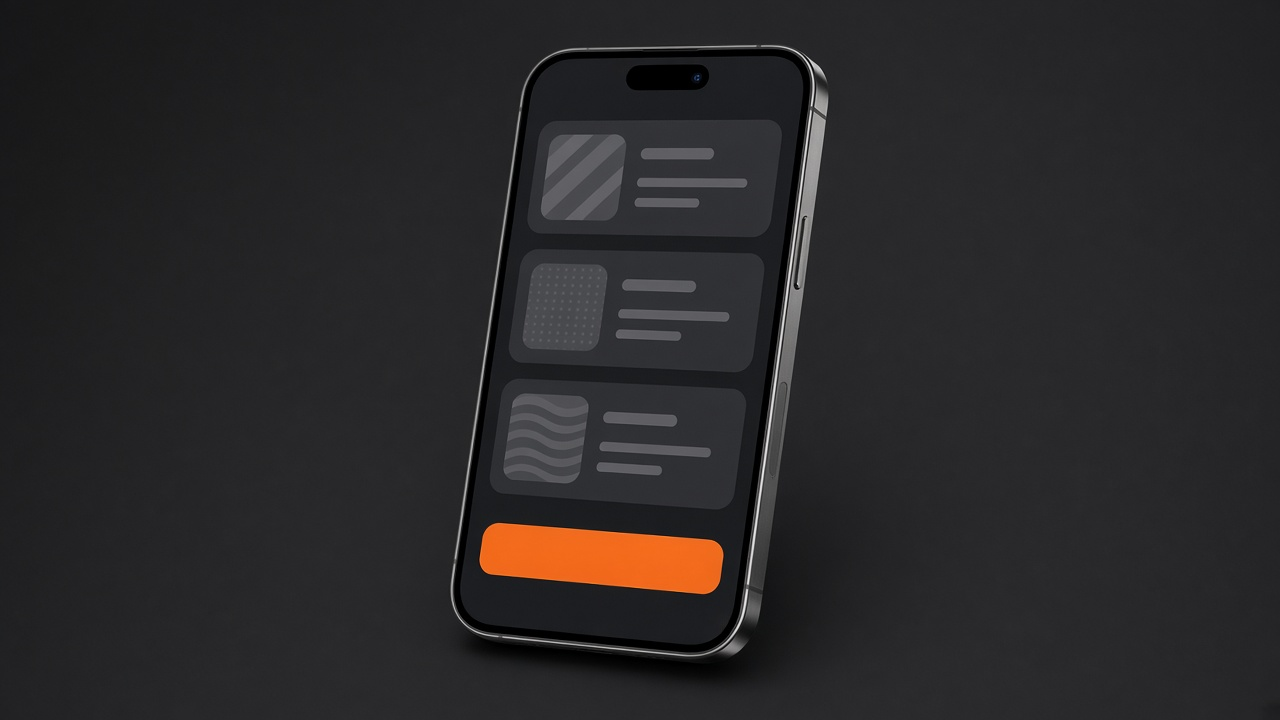
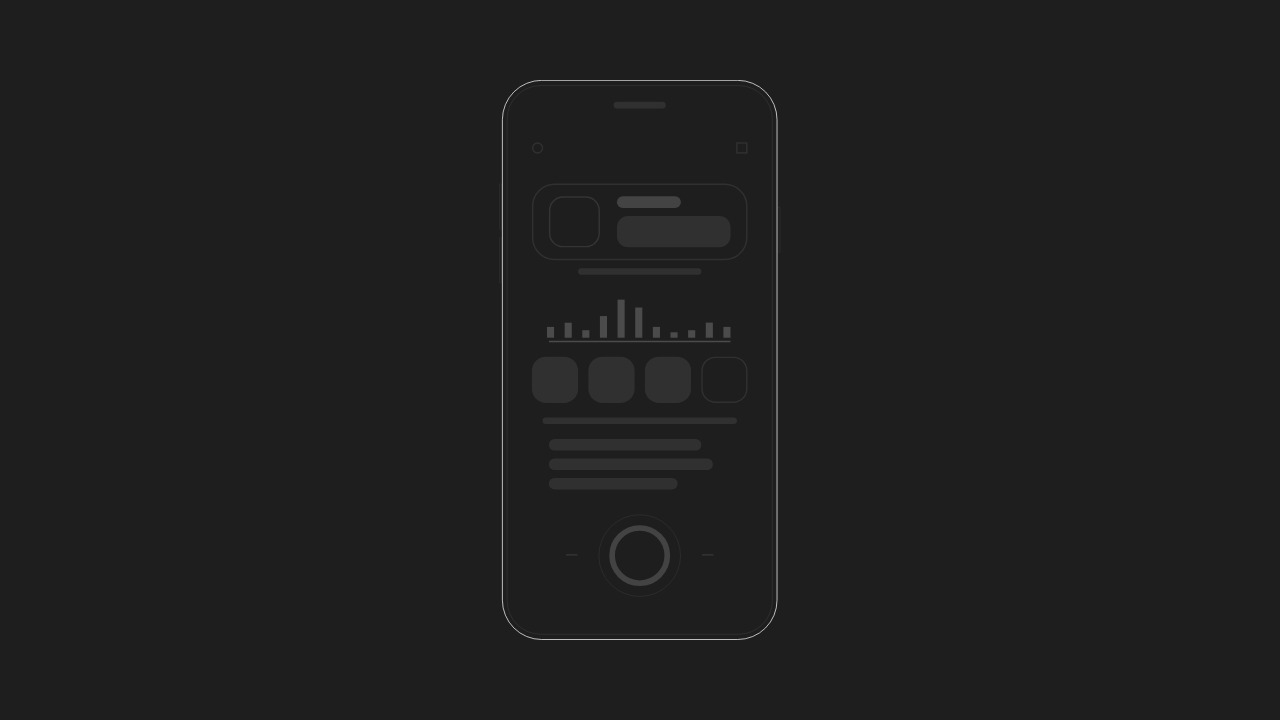
Swap UX third package for phone art and refresh share thumbnail.
Show the phone illustration in the packages grid, relocate the audit icon, and regenerate the OG image on the page canvas.

Changed region(s): [[0.3438, 0.0611, 0.6562, 0.9472]]

diff --git a/ux.html b/ux.html
@@ -24,12 +24,13 @@
     <meta property="og:type" content="website" />
     <meta property="og:url" content="https://formaa.no/ux" />
     <meta property="og:site_name" content="Formaa AS" />
-    <meta property="og:image" content="https://formaa.no/assets/images/ux-og.jpg" />
+    <!-- NOTE: Share thumbnail — phone illustration on page canvas (#1e1e1e); ?v busts crawler cache. -->
+    <meta property="og:image" content="https://formaa.no/assets/images/ux-og.jpg?v=2" />
     <meta property="og:image:width" content="1280" />
     <meta property="og:image:height" content="720" />
     <meta
       property="og:image:alt"
-      content="Mørk studio med iPhone og flytende app-skjermer — UX-design for apper"
+      content="Telefonillustrasjon — UX-audit og appdesign for AI-apper"
     />
 
     <meta name="twitter:card" content="summary_large_image" />
@@ -38,7 +39,7 @@
       name="twitter:description"
       content="UX-audit og redesign for AI-bygde apper. Pakker fra 5 000 kr — typisk 5–12 skjermer. Gjør appen profesjonell og klar for lansering."
     />
-    <meta name="twitter:image" content="https://formaa.no/assets/images/ux-og.jpg" />
+    <meta name="twitter:image" content="https://formaa.no/assets/images/ux-og.jpg?v=2" />
 
     <link rel="canonical" href="https://formaa.no/ux" />
 
@@ -53,7 +54,7 @@
     <link rel="icon" type="image/svg+xml" href="/assets/square-favicon.svg?v=2" sizes="any" />
 
     <link rel="stylesheet" href="/styles/base.css?v=46" />
-    <link rel="stylesheet" href="/styles/ux.css?v=25" />
+    <link rel="stylesheet" href="/styles/ux.css?v=27" />
 
     <script async src="https://www.googletagmanager.com/gtag/js?id=G-JSX18YWHXS"></script>
     <script>
@@ -182,45 +183,15 @@
                 </div>
               </div>
             </article>
-            <!-- NOTE: Third package temporarily hidden.
-            <article
-              class="ux-package is-open"
-              data-ux-package-card="Gjør appen klar for lansering"
-              data-ux-package-expand
-              tabindex="0"
-              aria-expanded="true"
-            >
-              <h3 class="ux-package__name">Gjør appen klar for lansering</h3>
-              <p class="ux-package__price">15 000 kr</p>
-              <p class="ux-package__note">eks. mva</p>
-              <button
-                class="inquiry-cta"
-                type="button"
-                data-ux-package="Gjør appen klar for lansering"
-              >
-                Bestill
-              </button>
-              <div class="ux-package__details">
-                <div class="ux-package__details-inner">
-                  <p class="ux-package__intro">
-                    Vi gjennomgår brukeropplevelsen, forbedrer designet og hjelper deg med å
-                    klargjøre appen for markedet.
-                  </p>
-                  <ul class="ux-package__list">
-                    <li>Audit og prioritering av problemer</li>
-                    <li>Forbedring av UX/UI og hovedflyter</li>
-                    <li>Oppgradering av valgte skjermer og funksjoner</li>
-                    <li>Sjekk av hovedflyter og responsivitet</li>
-                    <li>Klargjøring av UI, landingsside og basismateriale</li>
-                  </ul>
-                  <p class="ux-package__limit">
-                    Lanseringsklart innen avtalt omfang — ikke suksessgaranti, og ikke alle
-                    integrasjoner eller infrastruktur.
-                  </p>
-                </div>
-              </div>
-            </article>
-            -->
+            <!-- NOTE: Phone illustration fills the third package column (replaces launch package). -->
+            <figure class="ux-packages__visual" aria-hidden="true">
+              <img
+                src="/assets/illustrations/phone-illustration.svg"
+                alt=""
+                width="199"
+                height="395"
+              />
+            </figure>
           </div>
         </div>
       </section>
@@ -453,7 +424,7 @@
               "@type": "Country",
               "name": "Norge"
             },
-            "image": "https://formaa.no/assets/images/ux-og.jpg",
+            "image": "https://formaa.no/assets/images/ux-og.jpg?v=2",
             "hasOfferCatalog": {
               "@type": "OfferCatalog",
               "name": "UX-pakker",

diff --git a/styles/ux.css b/styles/ux.css
@@ -282,6 +282,22 @@
   }
 }
 
+/* NOTE: Decorative phone art in the third packages column — no card chrome; width matches column. */
+.ux-page .ux-packages__visual {
+  display: flex;
+  align-items: center;
+  justify-content: center;
+  margin: 0;
+  padding: 0;
+  min-width: 0;
+}
+
+.ux-page .ux-packages__visual img {
+  display: block;
+  width: 100%;
+  height: auto;
+}
+
 @media (min-width: 900px) {
   .ux-page .ux-packages {
     grid-template-columns: repeat(3, minmax(0, 1fr));

diff --git a/en/index.html b/en/index.html
@@ -589,7 +589,7 @@
             <!-- NOTE: Audit icon — height matches title + text column via CSS stretch. -->
             <img
               class="home-scope-note__icon"
-              src="/assets/icons/map/app-design-audit.svg"
+              src="/assets/icons/app-design-audit.svg"
               alt=""
               width="80"
               height="80"

diff --git a/index.html b/index.html
@@ -650,7 +650,7 @@
             <!-- NOTE: Audit icon — height matches title + text column via CSS stretch. -->
             <img
               class="home-scope-note__icon"
-              src="/assets/icons/map/app-design-audit.svg"
+              src="/assets/icons/app-design-audit.svg"
               alt=""
               width="80"
               height="80"
